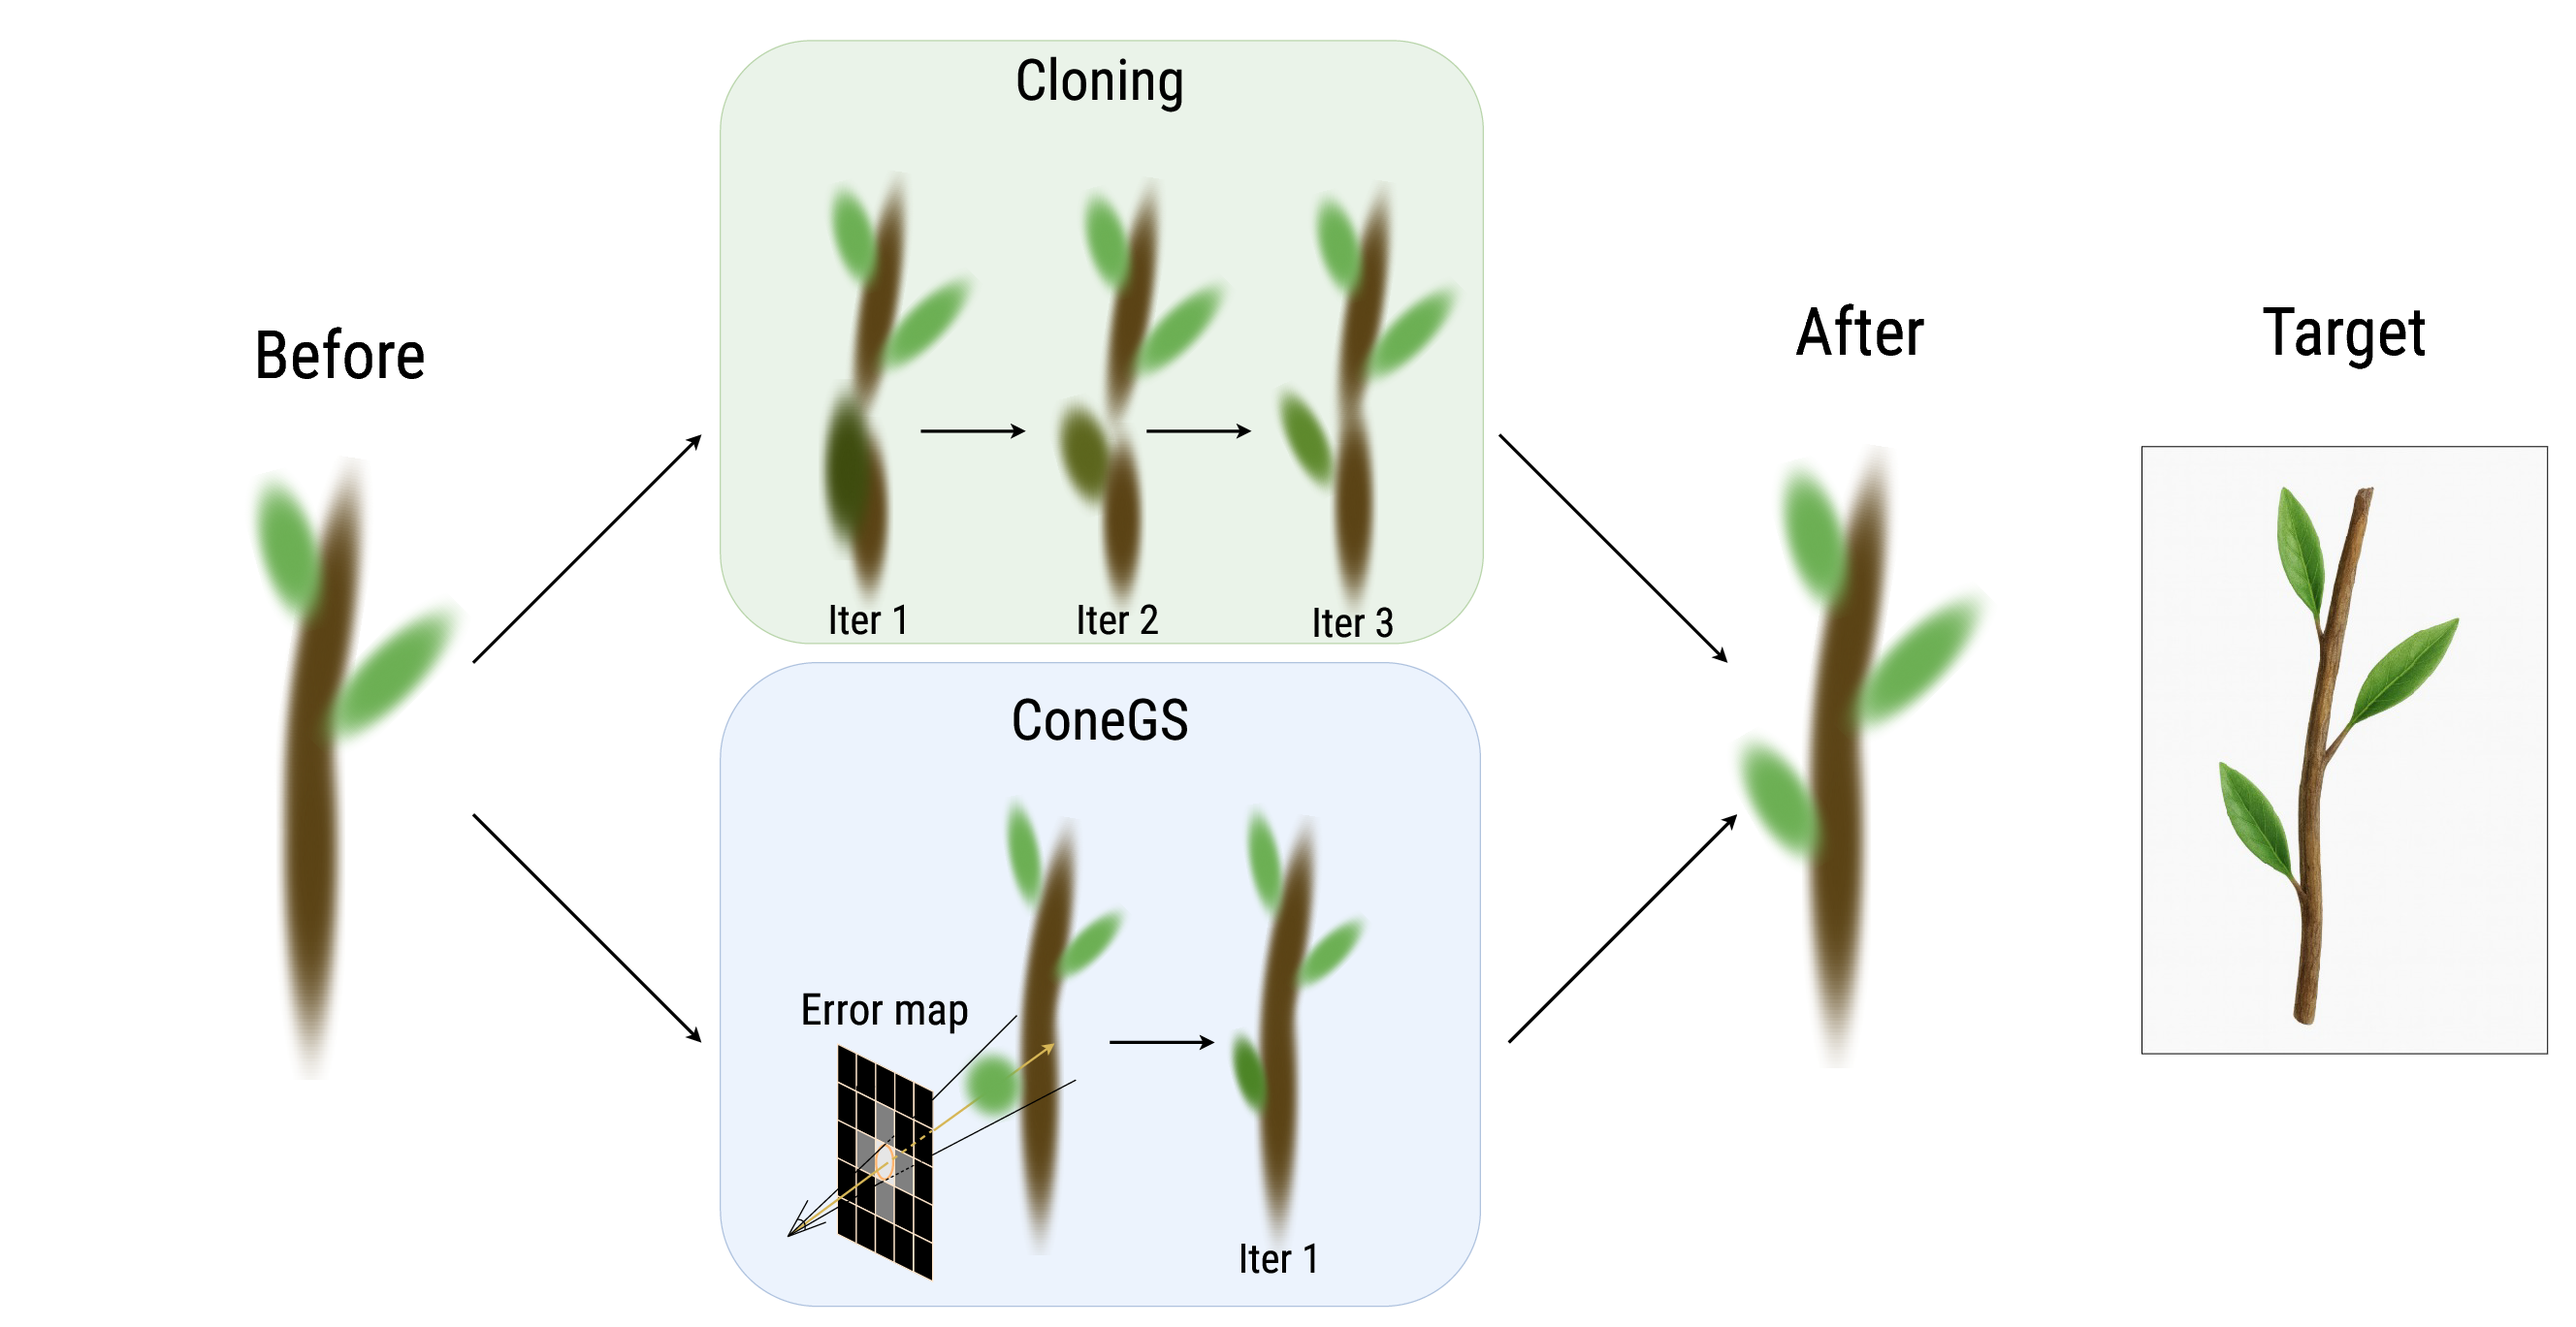
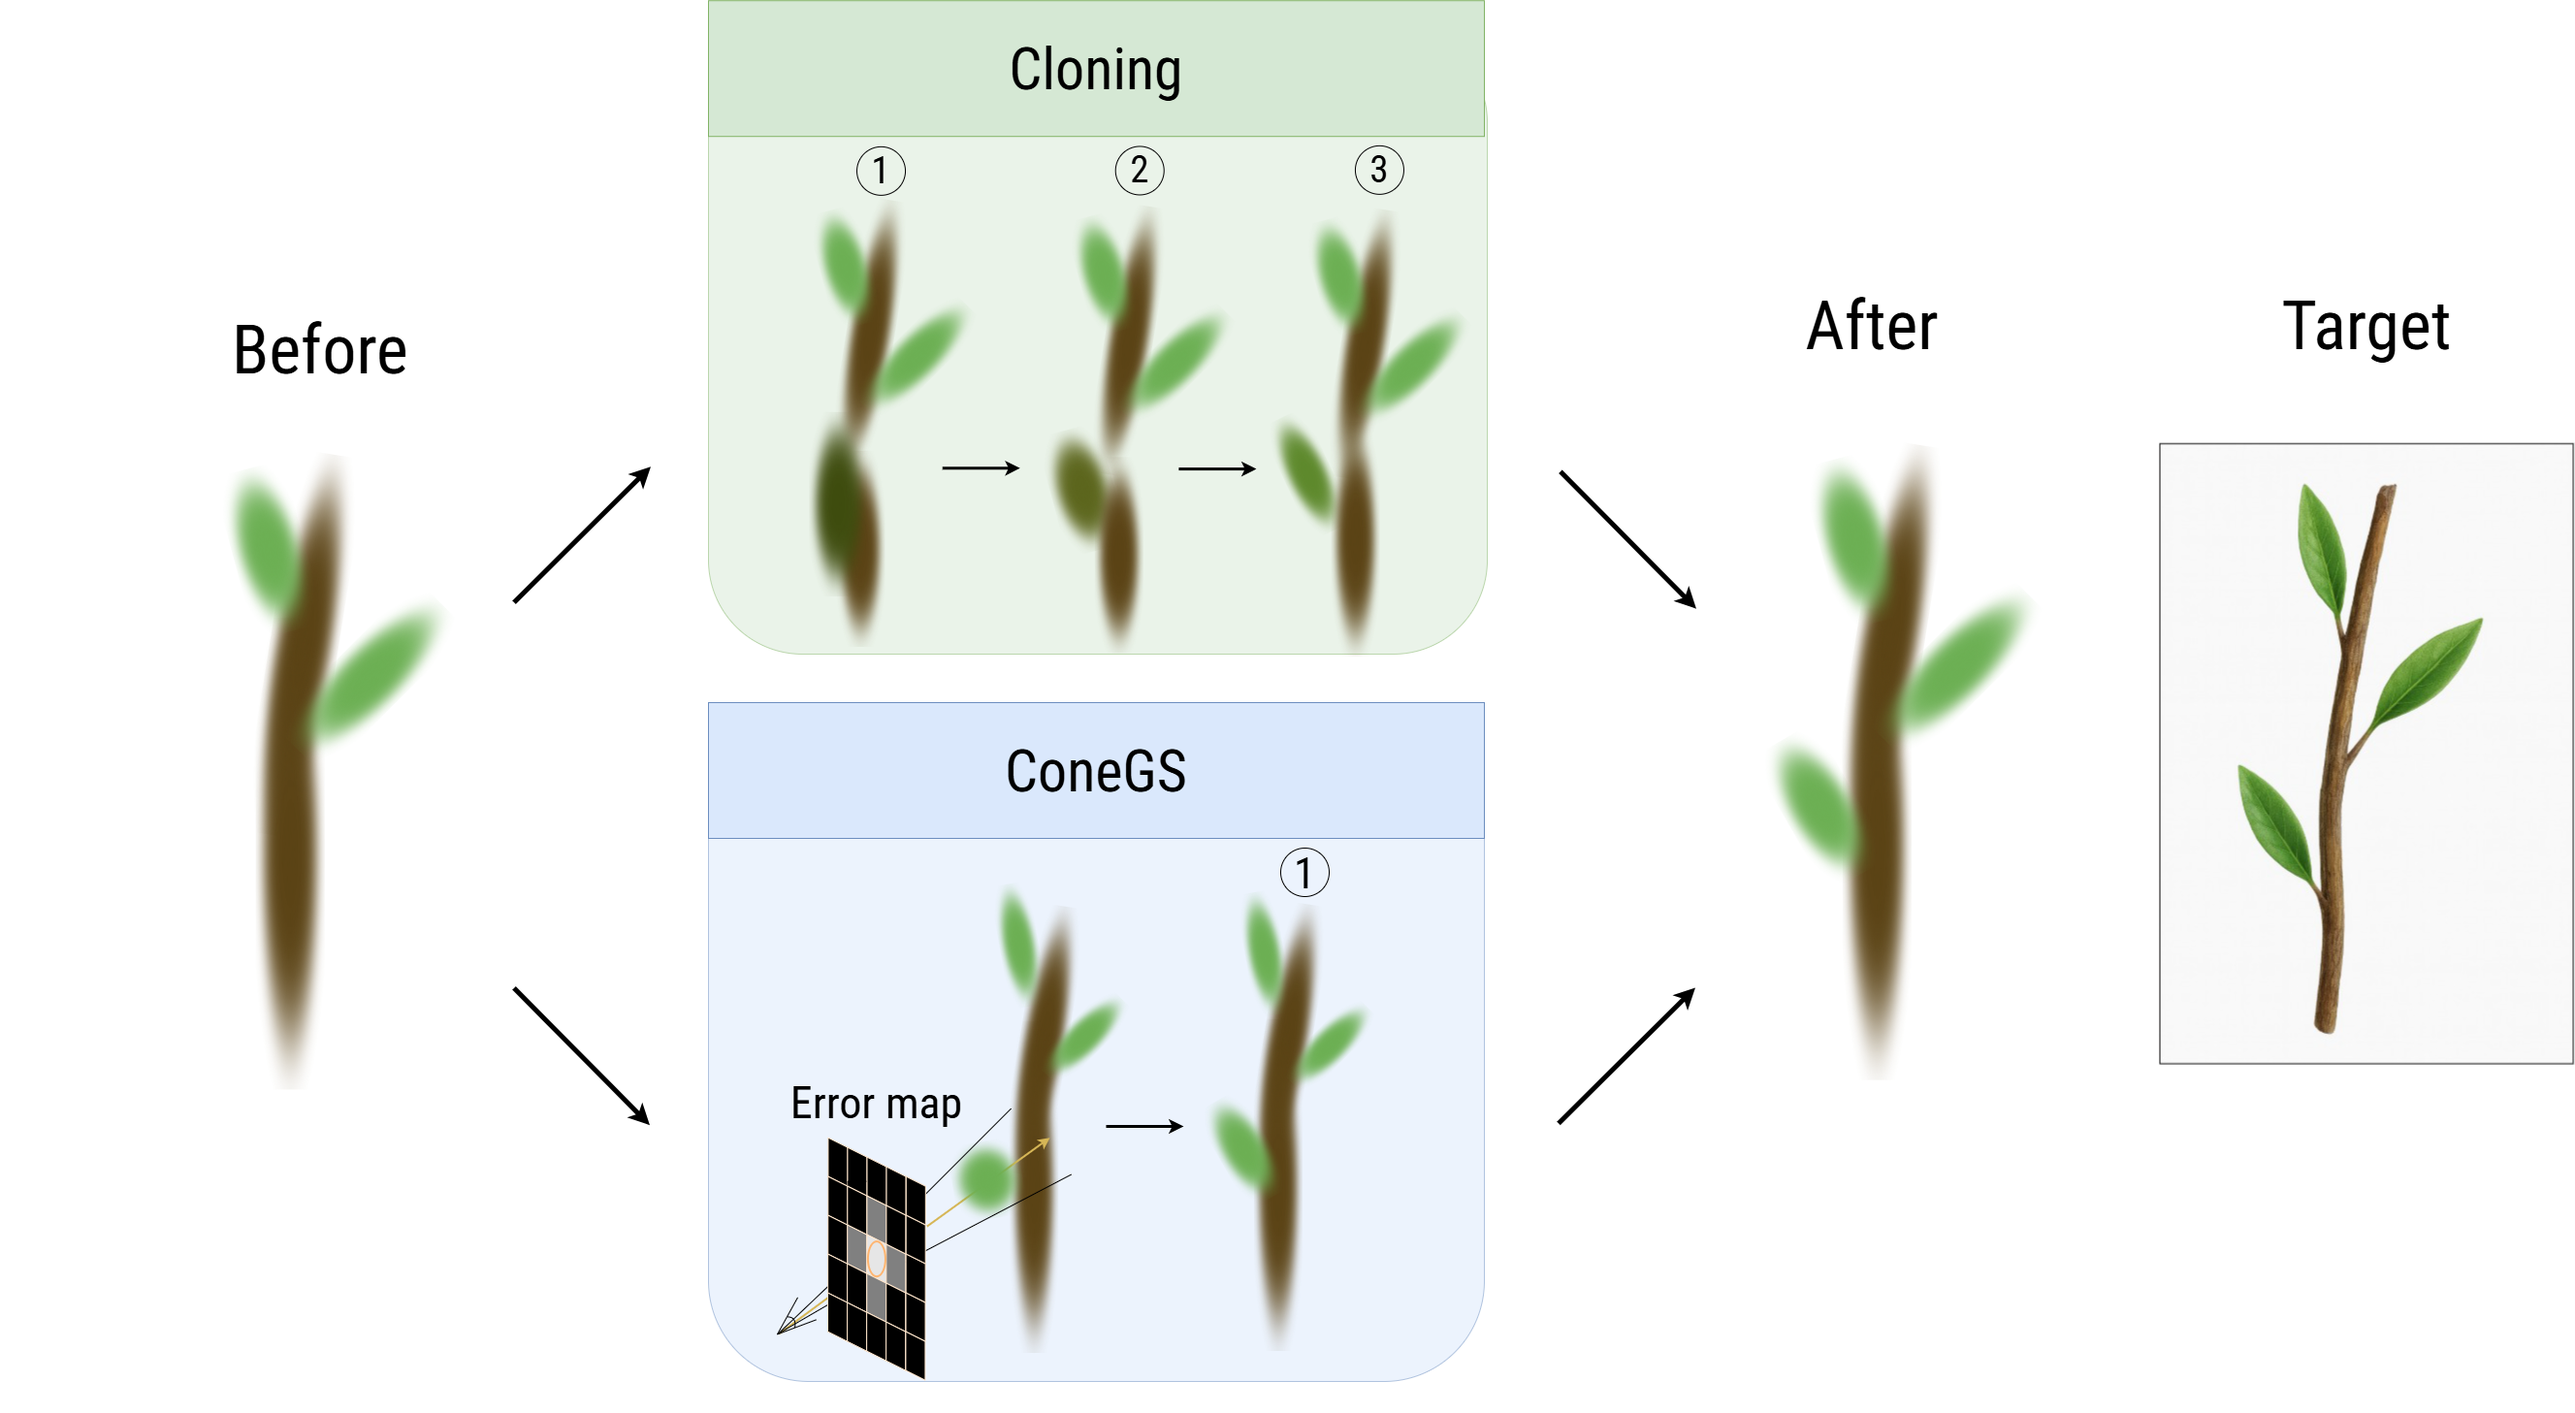
Update oral and toy example

diff --git a/index.html b/index.html
@@ -40,6 +40,9 @@
       <div class="columns is-centered">
         <div class="column has-text-centered">
           <h1 class="title is-1 publication-title">ConeGS: Error-Guided Densification Using Pixel Cones for Improved Reconstruction with Fewer Primitives</h1>
+          <div class="is-size-4 publication-authors">
+            <b>3DV 2026 (Oral)</b>
+          </div>
           <div class="is-size-5 publication-authors">
             <span class="author-block">
               <a href="https://baranowskibrt.github.io/">Bartłomiej Baranowski</a><sup>1</sup></span>&nbsp;&nbsp;&nbsp;&nbsp;
@@ -263,40 +266,6 @@
 
 
 
-
-<section class="section">
-  <div class="container is-max-desktop">
-    <div class="columns is-centered has-text-centered">
-    <div class="columns is-centered">
-      <div class="column is-full-width">
-      <h3 class="title is-4">Real-Time Interactive Viewer</h3>
-        <div class="content has-text-justified">
-          <p>
-            To explore the results with a limited number of primitives press an icon or check out our <a href="https://baranowskibrt.github.io/conegs_viewer/">online viewer</a>. 
-          </p>
-        </div>
-        <div class="content-row">
-          <div class="demo-scene-panel" onclick="openDemo('bicycle')">
-            <img src="static/images/bicycle.png" class="demo-scene-panel-image">
-            <span class="small-title">Bicycle</span>
-          </div>
-  
-          <div class="demo-scene-panel" onclick="openDemo('garden')">
-                <img src="static/images/garden.png" class="demo-scene-panel-image">
-                <span class="small-title">Garden</span>
-            </div>
-            <div class="demo-scene-panel" onclick="openDemo('stump')">
-                <img src="static/images/stump.png" class="demo-scene-panel-image">
-                <span class="small-title">Stump</span>
-            </div>
-          </div>
-
-      </div>
-    </div>
-    </div>
-
-  </div>
-</section>
 
 
 <footer class="footer">
